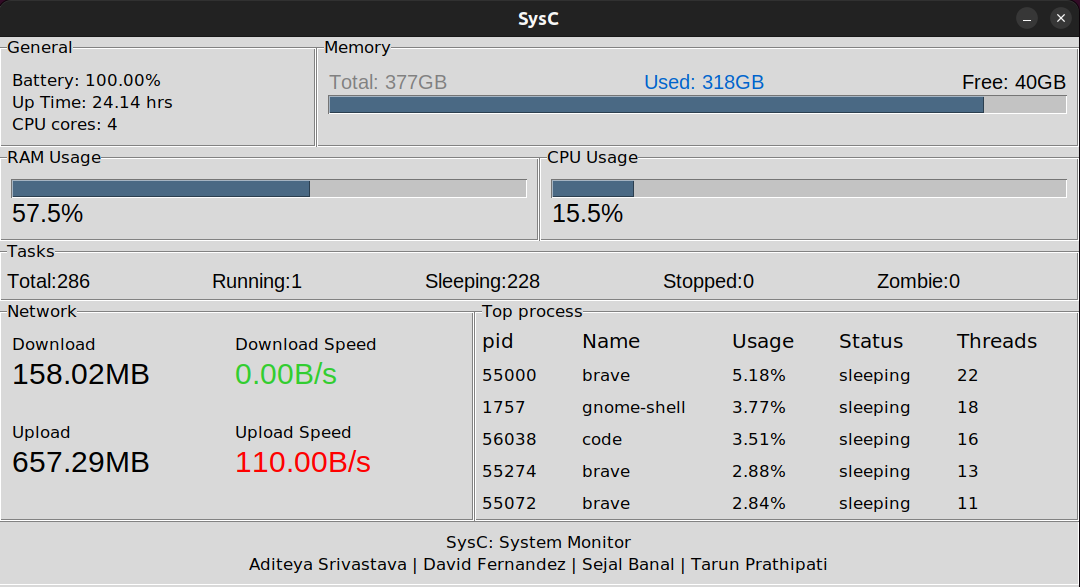
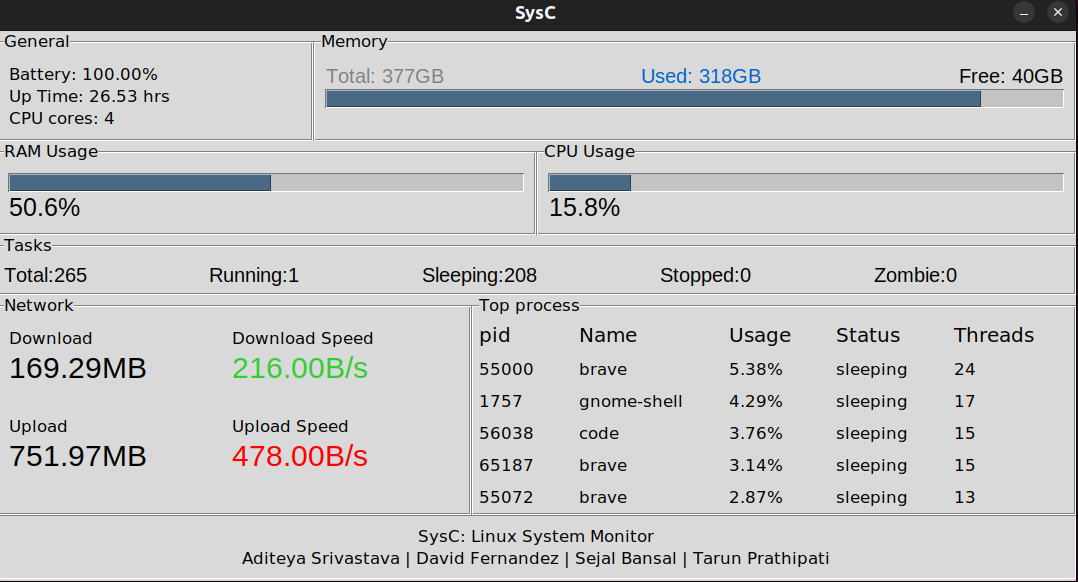
fixed name

diff --git a/const/config.py b/const/config.py
@@ -4,5 +4,5 @@ APP_NAME_LONG = "SysC: Linux System Monitor"
 
 AUTH_AS = "Aditeya Srivastava"
 AUTH_DF = "David Fernandez"
-AUTH_SB = "Sejal Banal"
+AUTH_SB = "Sejal Bansal"
 AUTH_TP = "Tarun Prathipati"
